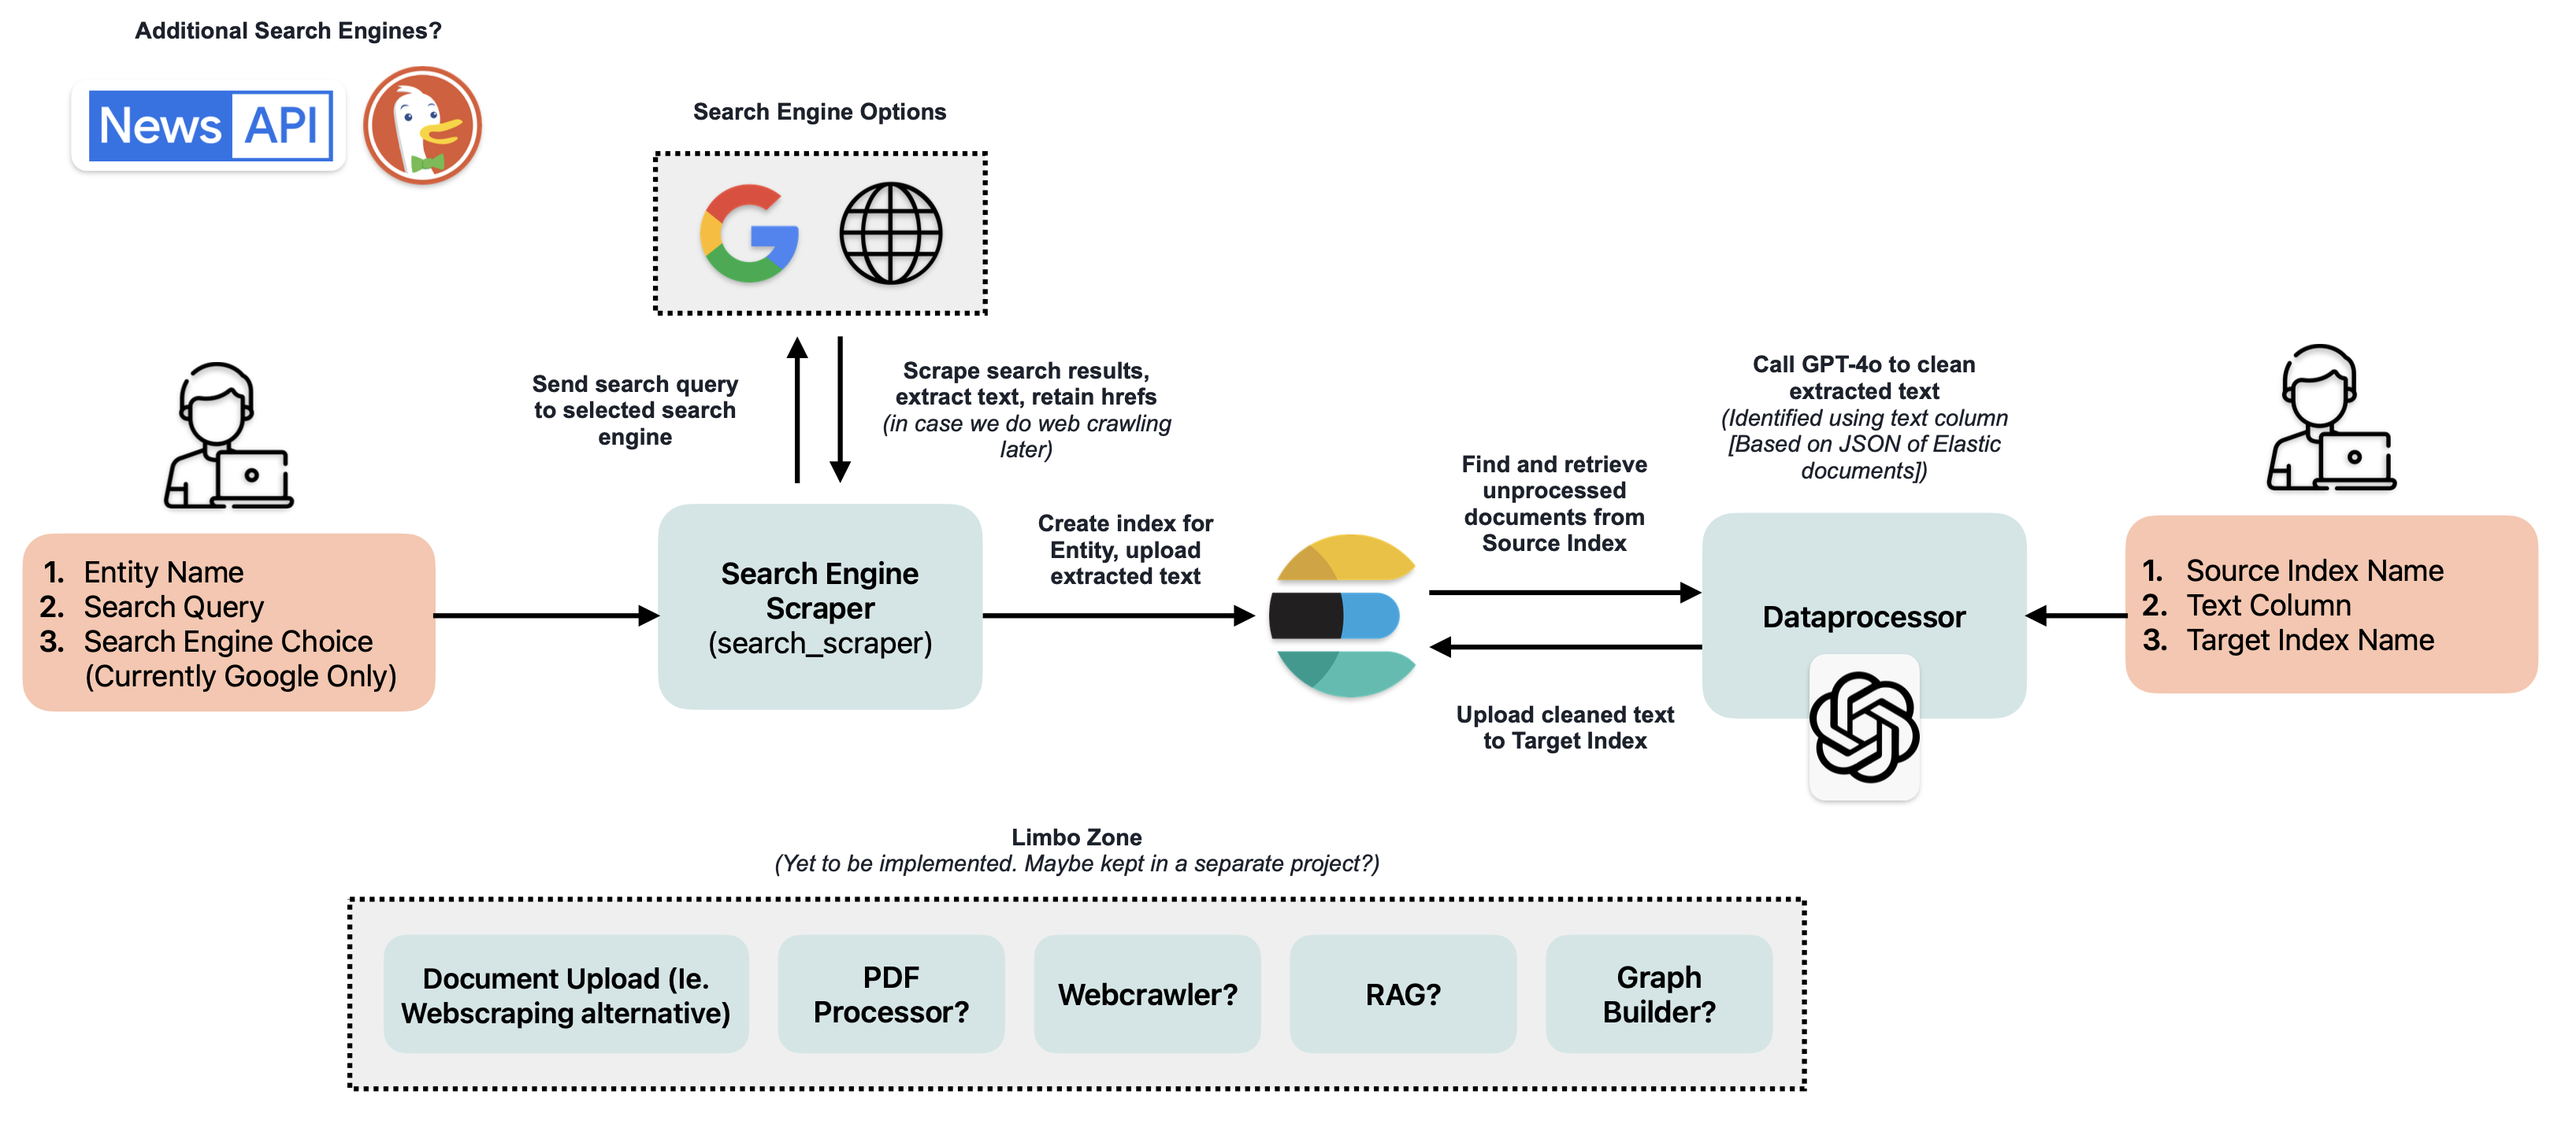
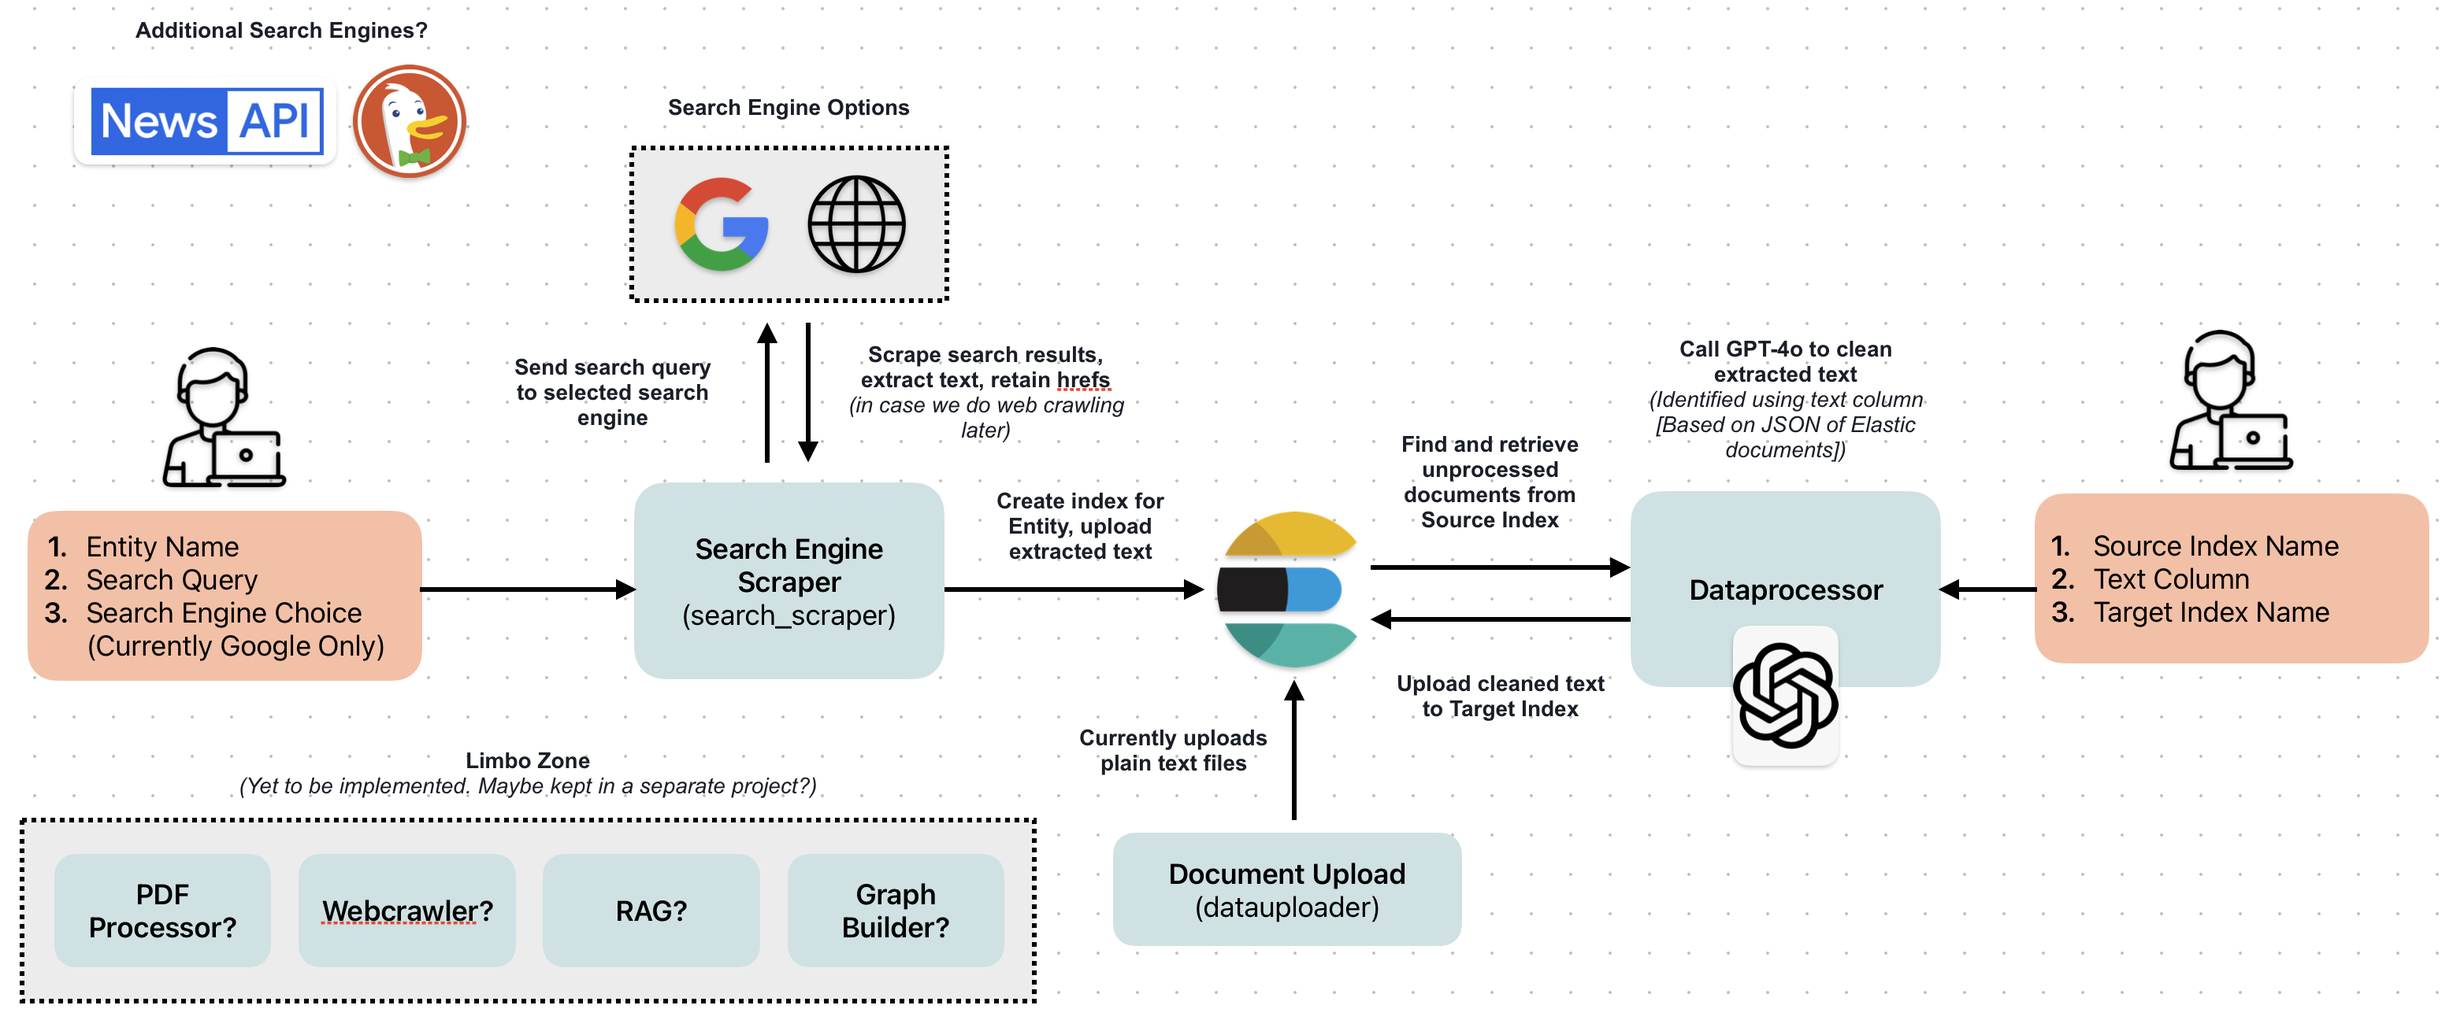
Update readme

Changed region(s): [[0.0, 0.0926, 0.9968, 0.7407], [0.0, 0.7099, 0.7164, 0.9877], [0.0311, 0.0, 0.1869, 0.1852]]

diff --git a/README.md b/README.md
@@ -17,6 +17,8 @@ Goal: To perform research on a particular entity, and aggregate surface-level in
 1) Integrate other search engine options like DuckDuckGo
 2) Make use of search engine targeted at news or academic articles
 3) Introduce processing of PDFs, word docs, etc... 
+* * In webscraper
+* * In manual data upload
 4) Improve filtering of articles to prevent wasted LLM utilization 
 5) Improve data cleaning to capture more detailed metadata?
 6) Centralize logging with logstash 
